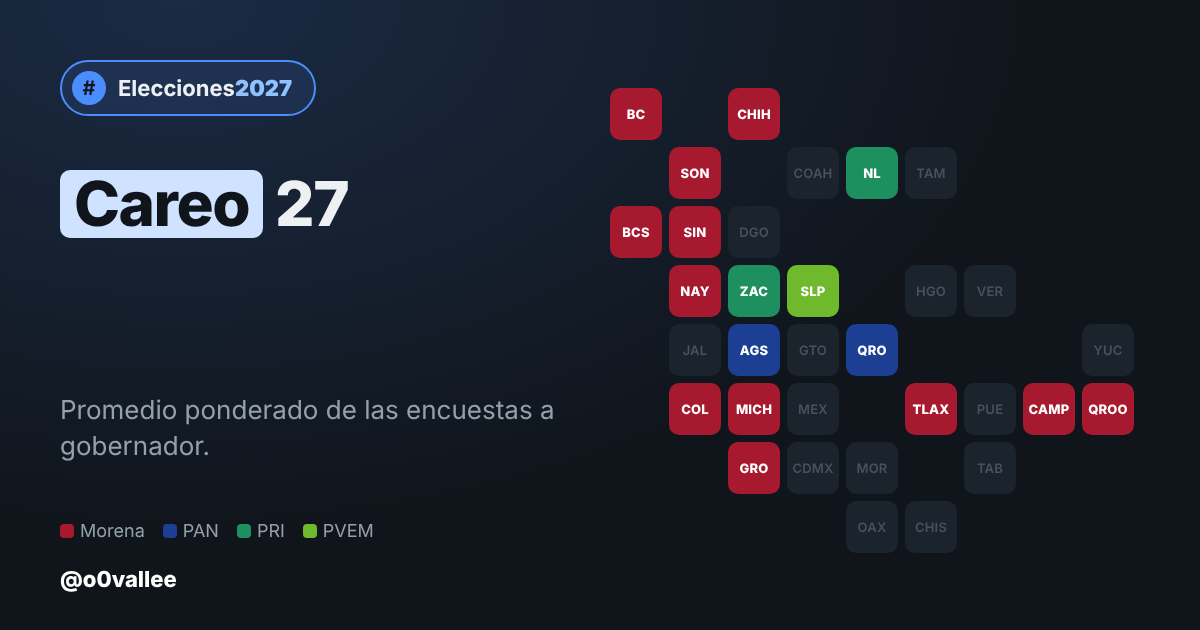
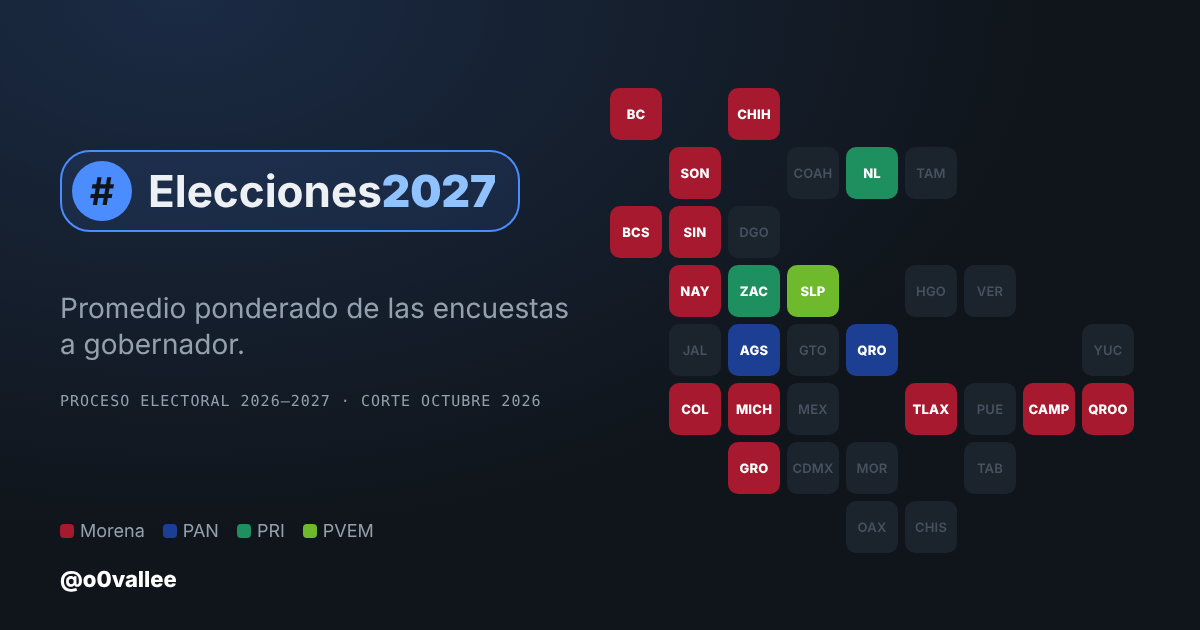
Add files via upload

diff --git a/index.html b/index.html
@@ -52,6 +52,11 @@
   header{padding:22px 18px 14px;border-bottom:1px solid var(--line);
     background:radial-gradient(ellipse at 12% 0%,rgba(75,141,255,.17),transparent 62%);}
   .sheet-tag{margin:0;}
+  .sr-only{position:absolute;width:1px;height:1px;overflow:hidden;clip:rect(0 0 0 0);white-space:nowrap;}
+  header{text-align:center;padding-top:34px;}
+  header .pill-main{font-size:30px;padding:9px 26px 9px 10px;margin:0 0 14px;border-width:2.5px;}
+  header .pill-main i{width:40px;height:40px;font-size:26px;margin-right:12px;}
+  header .eyebrow{margin:10px 0 0;}
   .pill{display:inline-flex;align-items:center;border:1.5px solid var(--blue);background:rgba(75,141,255,.10);
     border-radius:999px;padding:4px 14px 4px 5px;font-weight:700;font-size:13px;margin:0 0 12px;color:#fff;}
   .pill i{width:22px;height:22px;border-radius:50%;background:var(--blue);color:#10151b;font-style:normal;
@@ -216,10 +221,10 @@
 
 <div class="page">
 <header>
-  <span class="pill"><i>#</i>Elecciones<b>2027</b></span>
-  <p class="eyebrow">Proceso electoral 2026–2027 · Corte octubre 2026</p>
-  <h1><span class="hl">Careo</span> 27</h1>
+  <h1 class="sr-only">Careo 27</h1>
+  <span class="pill pill-main"><i>#</i>Elecciones<b>2027</b></span>
   <p class="sub">Promedio ponderado de las encuestas a gobernador.</p>
+  <p class="eyebrow">Proceso electoral 2026–2027 · Corte octubre 2026</p>
 </header>
 
 <div class="legend">
